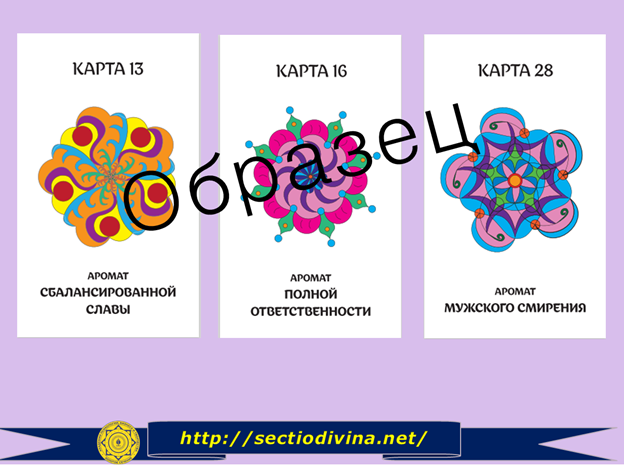
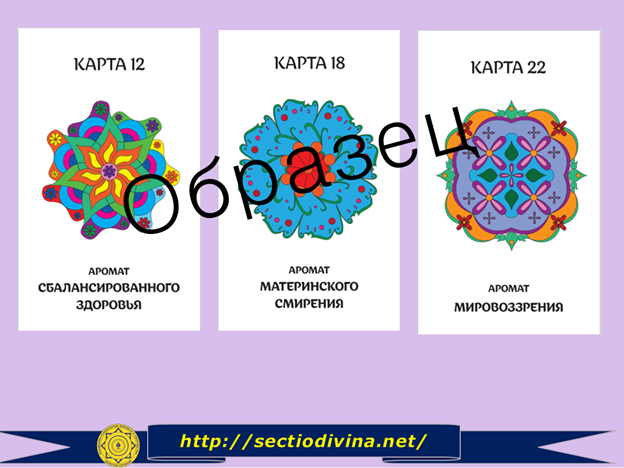
обновил код

diff --git a/index.html b/index.html
@@ -53,15 +53,16 @@
       <div class="position-card">
         <div class="info infos1" id="info1">
           <h1 class="main-text1">Карта № 1</h1>
-          <h2 class="main-text2">Аромат сбалансированной славы.</h2>
+          <h2 class="main-text2">Аромат сбалансированного здоровья.</h2>
           <p class="cart1">
-            *Появление этой карты в раскладе говорит о том, что сейчас наступил момент, когда вам необходимо разобраться со своим отношением к славе: 
-- Как вы относитесь к известности? 
-- Есть ли у вас проблемы с признанием кого-то успешным человеком? 
-- Как лично вы определяете понятие славы?
-- Есть ли момент гордыни в вашем проявлении себя в обществе?
-- Хотели бы вы стать известным и знаменитым? Если – нет, то почему? Если – да, то почему?
-*Понимание этих аспектов даст вам представление о том, какое место занимает слава в вашей жизни. Может быть, сейчас пришло время для переоценки своих возможностей, своих талантов, то время, когда вы можете проявить себя.
+            * Появление этой карты в раскладе говорит о том, что сейчас ваш организм нуждается в особом внимании и заботе. Спросите себя:
+- Как давно вы занимались своим здоровьем? 
+- Устраивает ли вас то, как вы себя чувствуете? 
+- Каково ваше эмоциональное, психическое состояние? 
+- Какой образ жизни вы сейчас ведете? Нет ли перекосов в какую-то одну из областей вашей жизни?
+- Как давно вы отдыхали?
+*Наш организм имеет огромный потенциал. Но и этот потенциал можно растерять, если вовремя не понять, что здоровьем нужно заниматься. Физические недомогания могут быть как результатом неправильного образа жизни, так и следствием наших поступков, эмоций, мыслей. Занимайтесь духовными практиками, радуйтесь каждому мгновенью вашей жизни. Благодарите, прощайте, отпускайте и принимайте все, что приходит к вам жизнь. 
+*При встречах и расставаниях с близкими нам людьми мы всегда желаем им хорошего здоровья, потому что это — главное условие полноценной и счастливой жизни.
             <div class="number-cart">
               Пишите номер карты нам в ответном письме и получите доступ к медитации на платформе геткурс.
             </div> 
@@ -75,14 +76,18 @@
   
         <div class="info infos1" id="info2">
           <h4 class="main-text3">Карта № 2</h4>
-          <h5 class="main-text4">Аромат полной ответственности.</h5>
+          <h5 class="main-text4">Аромат материнского смирения.</h5>
           <p class="cart2">
-            * Появление этой карты в раскладе говорит о том, что сейчас существует ситуация, где вам необходимо проявить вашу личную ответственность. Возможно у вас есть проблемы со взятием на себя каких-то обязательств или наоборот, вы берете на себя лишнюю ответственность. Можно выделить три основных уровня ответственности:
-- перед самим собой (волевое поведение, стремление к повышению благополучия, укрепление здоровья, самоактуализация и самосовершенствование);
-- перед другими людьми (ответственное поведение по отношению к родным, близким и всем, с кем человек так или иначе взаимодействует лично);
-- перед обществом и миром (соблюдение законов, уважение к другим людям, бережливое отношение к природе).
-*Просканируйте все уровни ответственности. 
-*Мы не всемогущи, как бы нам этого не хотелось. Но и не пешки в руках судьбы. Очень хорошо помогает развитие критического мышления, постановка вопросов самому себе и поиск «золотой середины» в вашей личной ответственности. Чтобы она стала комфортной реальностью, помогающей на вашем пути к своим целям.
+            *Появление этой карты в раскладе говорит о том, что пришло время разобраться с вашими привязанностями.  Посмотрите на себя со стороны, проанализируйте:
+- Насколько ваша любовь к ребенку, близкому человеку безусловна? 
+- Не слишком ли вы контролируете ваши взаимоотношения? 
+- Может ли ваша супер-забота помешать близким в принятии ими самостоятельных решений? 
+- Понимаете ли вы, что таким образом проявляете свой личный эгоизм?
+
+*Проявление сильной привязанности бывает не только в семье. Когда вы долго и упорно работаете над каким-нибудь делом, проектом. Все ваши мысли, время, а, может быть, и средства вкладываются в дело всей вашей жизни. Вам кажется, что только это имеет значение. Ни семья, ни дети, ни друзья не могут в данном случае конкурировать. Все поставлено на карту достижения результата.
+
+*Такая цена не всегда оправдана. Если это занимает какой-то промежуток вашей жизни и потом вы с легкостью отпускаете свое детище – хорошо. Но часто бывает так, что человек всю жизнь привязан к какой-то идее, которая не позволяет ему быть свободным. Такой человек лишает себя радости семьи, общения с друзьями и т.д.
+*Ваш проект при этом тоже страдает. Не отпуская его в мир, вы также, как и мать, не отпускающая своего ребенка, не даете возможности вашему проекту, образно говоря, расправить крылья и полететь.
             <div class="number-cart">
               Пишите номер карты нам в ответном письме и получите доступ к медитации на платформе геткурс.
             </div> 
@@ -97,11 +102,14 @@
             Карта № 3 
           </h6>
           <h7 class="main-text6">
-            Аромат мужского смирения.
+            Аромат мировоззрения.
           </h7>
           <p class="cart3">
-* Появление этой карты в раскладе говорит о том, что пришло время оценить, а может быть пересмотреть отношения с вашим партнером, близкими вам людьми. Это нужно сделать с точки зрения вашего внутреннего баланса Инь-Ян. Баланса между мужским и женским началом. 
-*Нужно понимать, что мужское начало — это дух, а женское - материя. Вместе они создают реальность, вселенную, идеальный баланс. Ничего нельзя зачать без мужской энергии, и ничего нельзя родить без женской энергии.
+            * Появление этой карты в раскладе говорит о том, что в какой-то из областей вашей жизни сейчас работает закон бумеранга. Если учесть, что реакция на бумеранг растянута во времени, есть смысл проанализировать ваши поступки за какой-то период. 
+            *Если вы понимаете, что сейчас у вас появились какие-то неприятности – в отношениях, финансах, здоровье, карьере, подумайте, когда и где вы совершали поступки, которые привели к сегодняшней ситуации.
+            *Какие ваши слова могли кого-то обидеть, какие негативные мысли возникали у вас по отношению к кому-либо? Как часто вы позволяли себе осуждать или обманывать кого-то? 
+            *Любая система стремиться к равновесию. То есть сила действия равна силе противодействия. И воздаяние будет соответствовать содеянному. Даже, если вы не смогли увидеть у себя ничего предосудительного, попросите прощения у ваших близких, поблагодарите Вселенную за все, что она вам дает и за то, чего не дает. В этом мире все справедливо.
+            *Помните о законе бумеранга. Хотите, чтобы вам помогали, помогайте сами, хотите заботы – начните о ком-то заботиться, хотите быть любимым – любите. Помните, что вы хозяин не только своих поступков, но и мыслей. Контролируйте их, творите добро, и оно обязательно к вам вернется!
             <div class="number-cart">
               Пишите номер карты нам в ответном письме и получите доступ к медитации на платформе геткурс.
             </div> 
